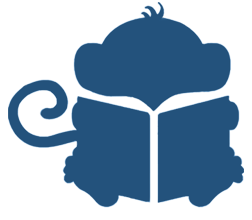
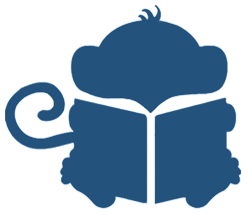
Styling: Monkey and Title Text turn blue when hovered. Done with state bc parent div hovering triggers it.

diff --git a/src/components/PreviewModule/PreviewModule.js b/src/components/PreviewModule/PreviewModule.js
@@ -1,20 +1,37 @@
+import { useState } from "react";
 import "./PreviewModule.css";
 
 function PreviewModule() {
+  const [isMonkeyHovered, setIsMonkeyHovered] = useState(false);
+  const [isTitleHovered, setIsTitleHovered] = useState(false);
   return (
-    <div className="preview-module-container">
+    <div
+      className="preview-module-container"
+      onMouseEnter={() => {
+        setIsTitleHovered(true);
+        setIsMonkeyHovered(true);
+      }}
+      onMouseLeave={() => {
+        setIsTitleHovered(false);
+        setIsMonkeyHovered(false);
+      }}
+    >
       <div className="header">
         <div className="status">Assigned</div>
       </div>
       <div className="preview-icon-holder">
         <img
           className="monkey-reading"
-          src="/images/monkey-reading.png"
+          src={
+            isMonkeyHovered
+              ? "/images/monkey-reading-dark.png"
+              : "/images/monkey-reading.png"
+          }
           alt="monkey-reading"
         />
       </div>
       <div className="title-and-description-container">
-        <div className="title">Title</div>
+        <div className={`title ${isTitleHovered ? "active" : ""}`}>Title</div>
         <div className="description"></div>
       </div>
     </div>

diff --git a/src/components/PreviewModule/PreviewModule.css b/src/components/PreviewModule/PreviewModule.css
@@ -7,6 +7,7 @@
   height: 45%;
   width: 20%;
   border-radius: 10px;
+  cursor: pointer;
 }
 
 .header {
@@ -75,6 +76,10 @@
   font-weight: bold;
   padding-left: 30px;
   padding-top: 15px;
+}
+
+.active {
+  color: #23527c;
 }
 
 .description {
